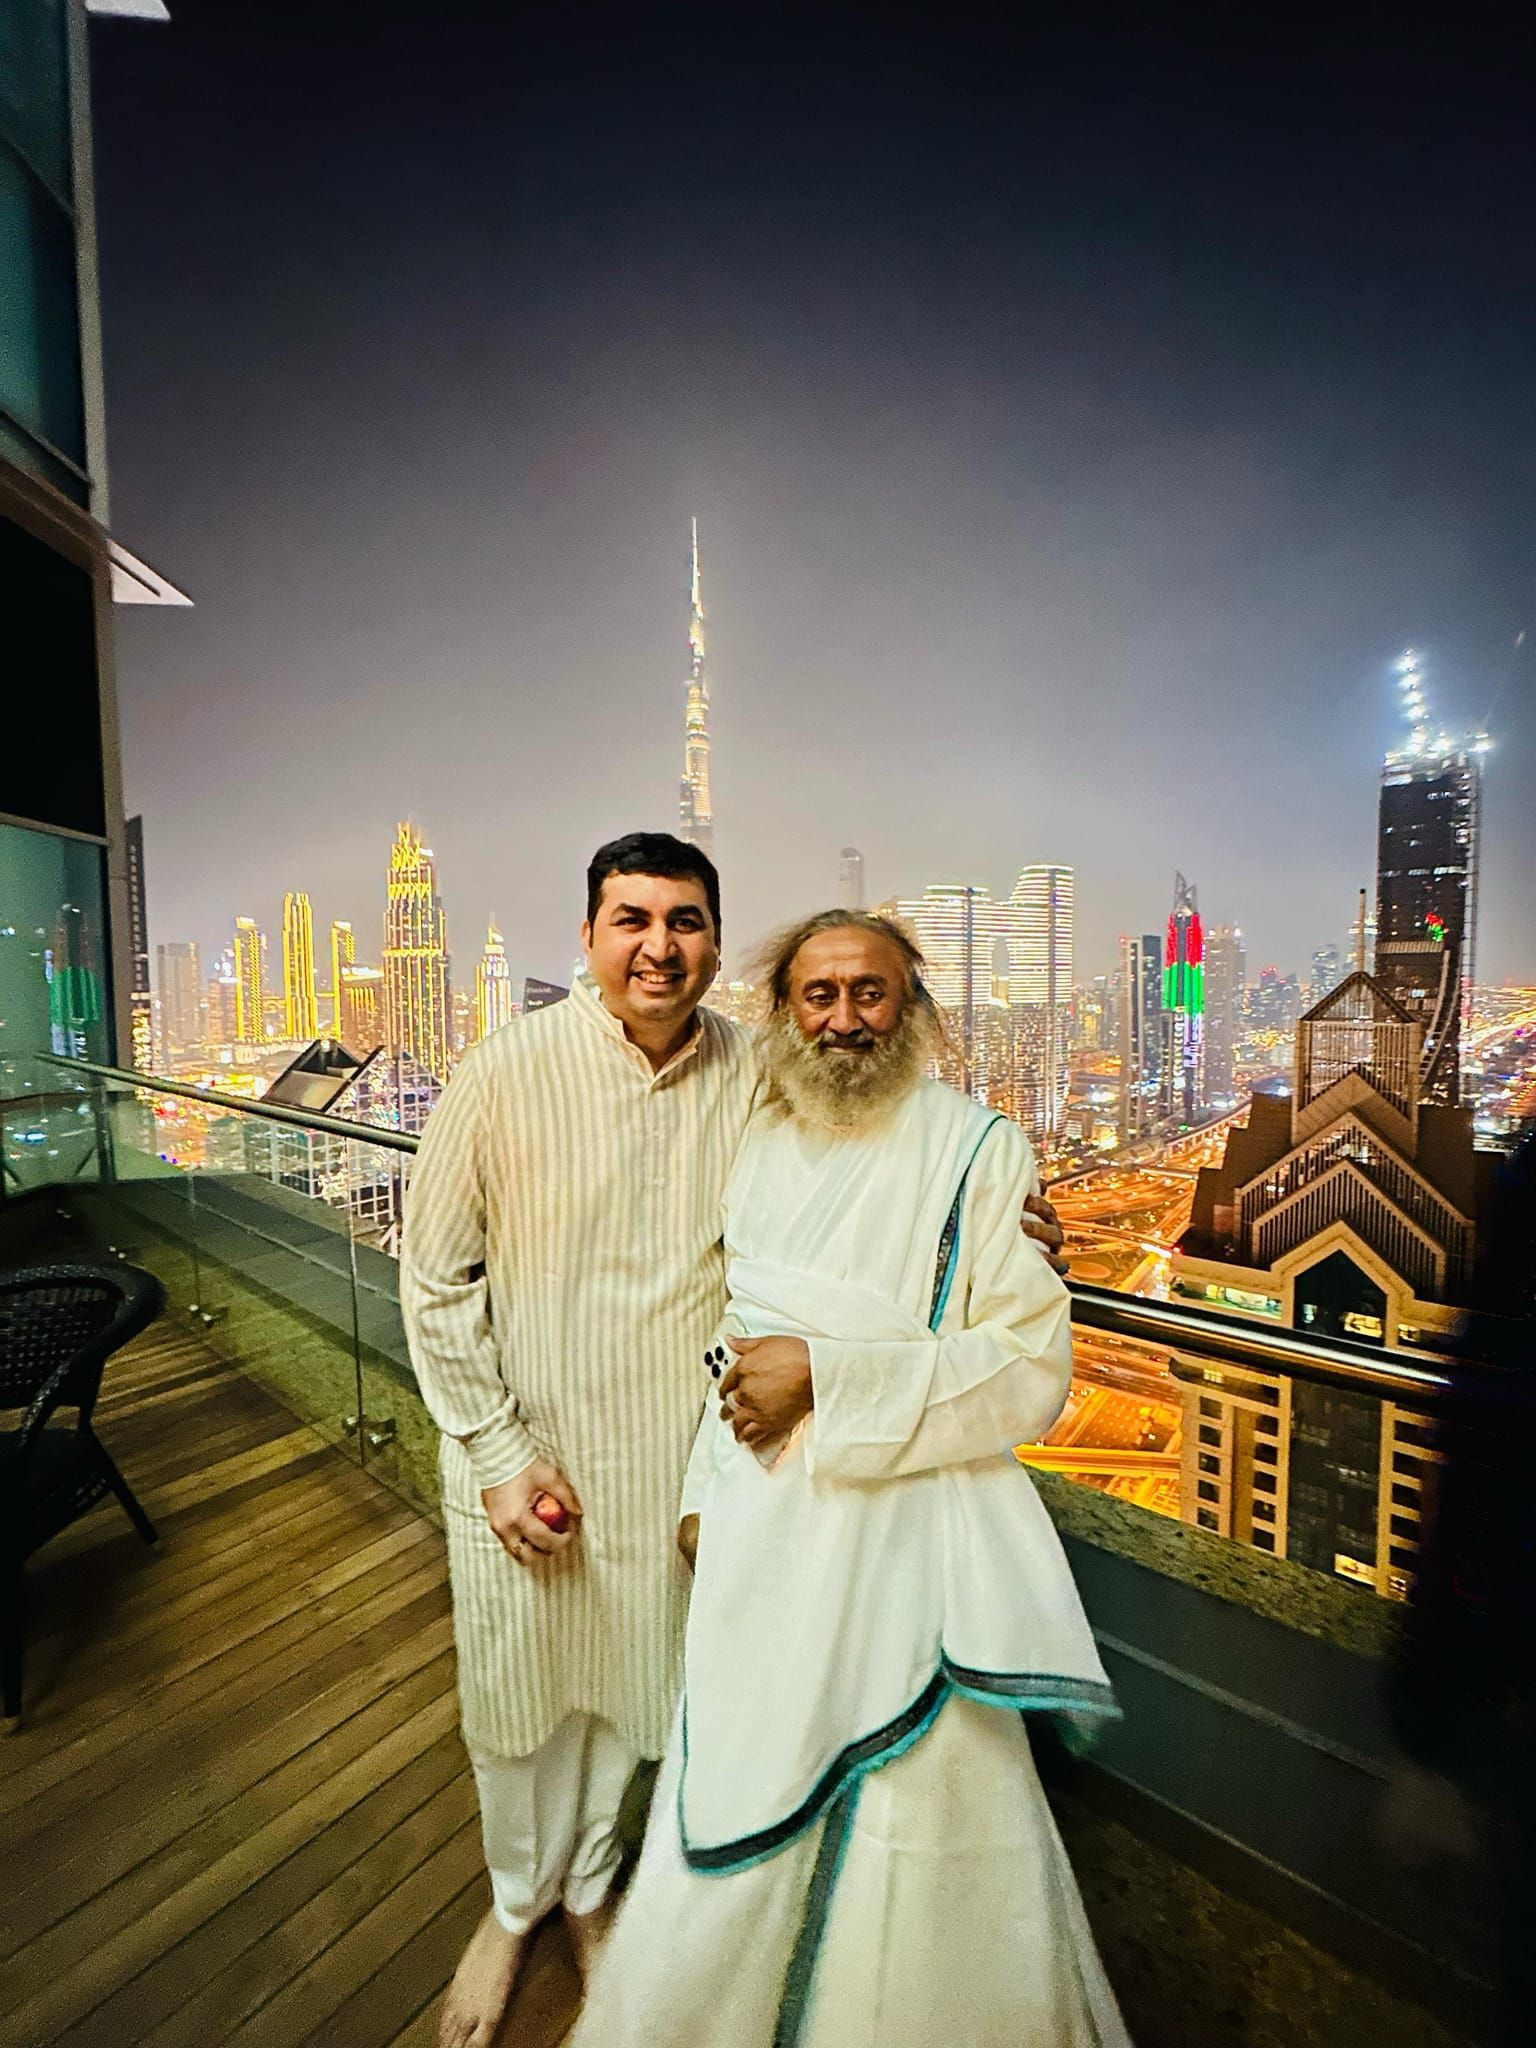
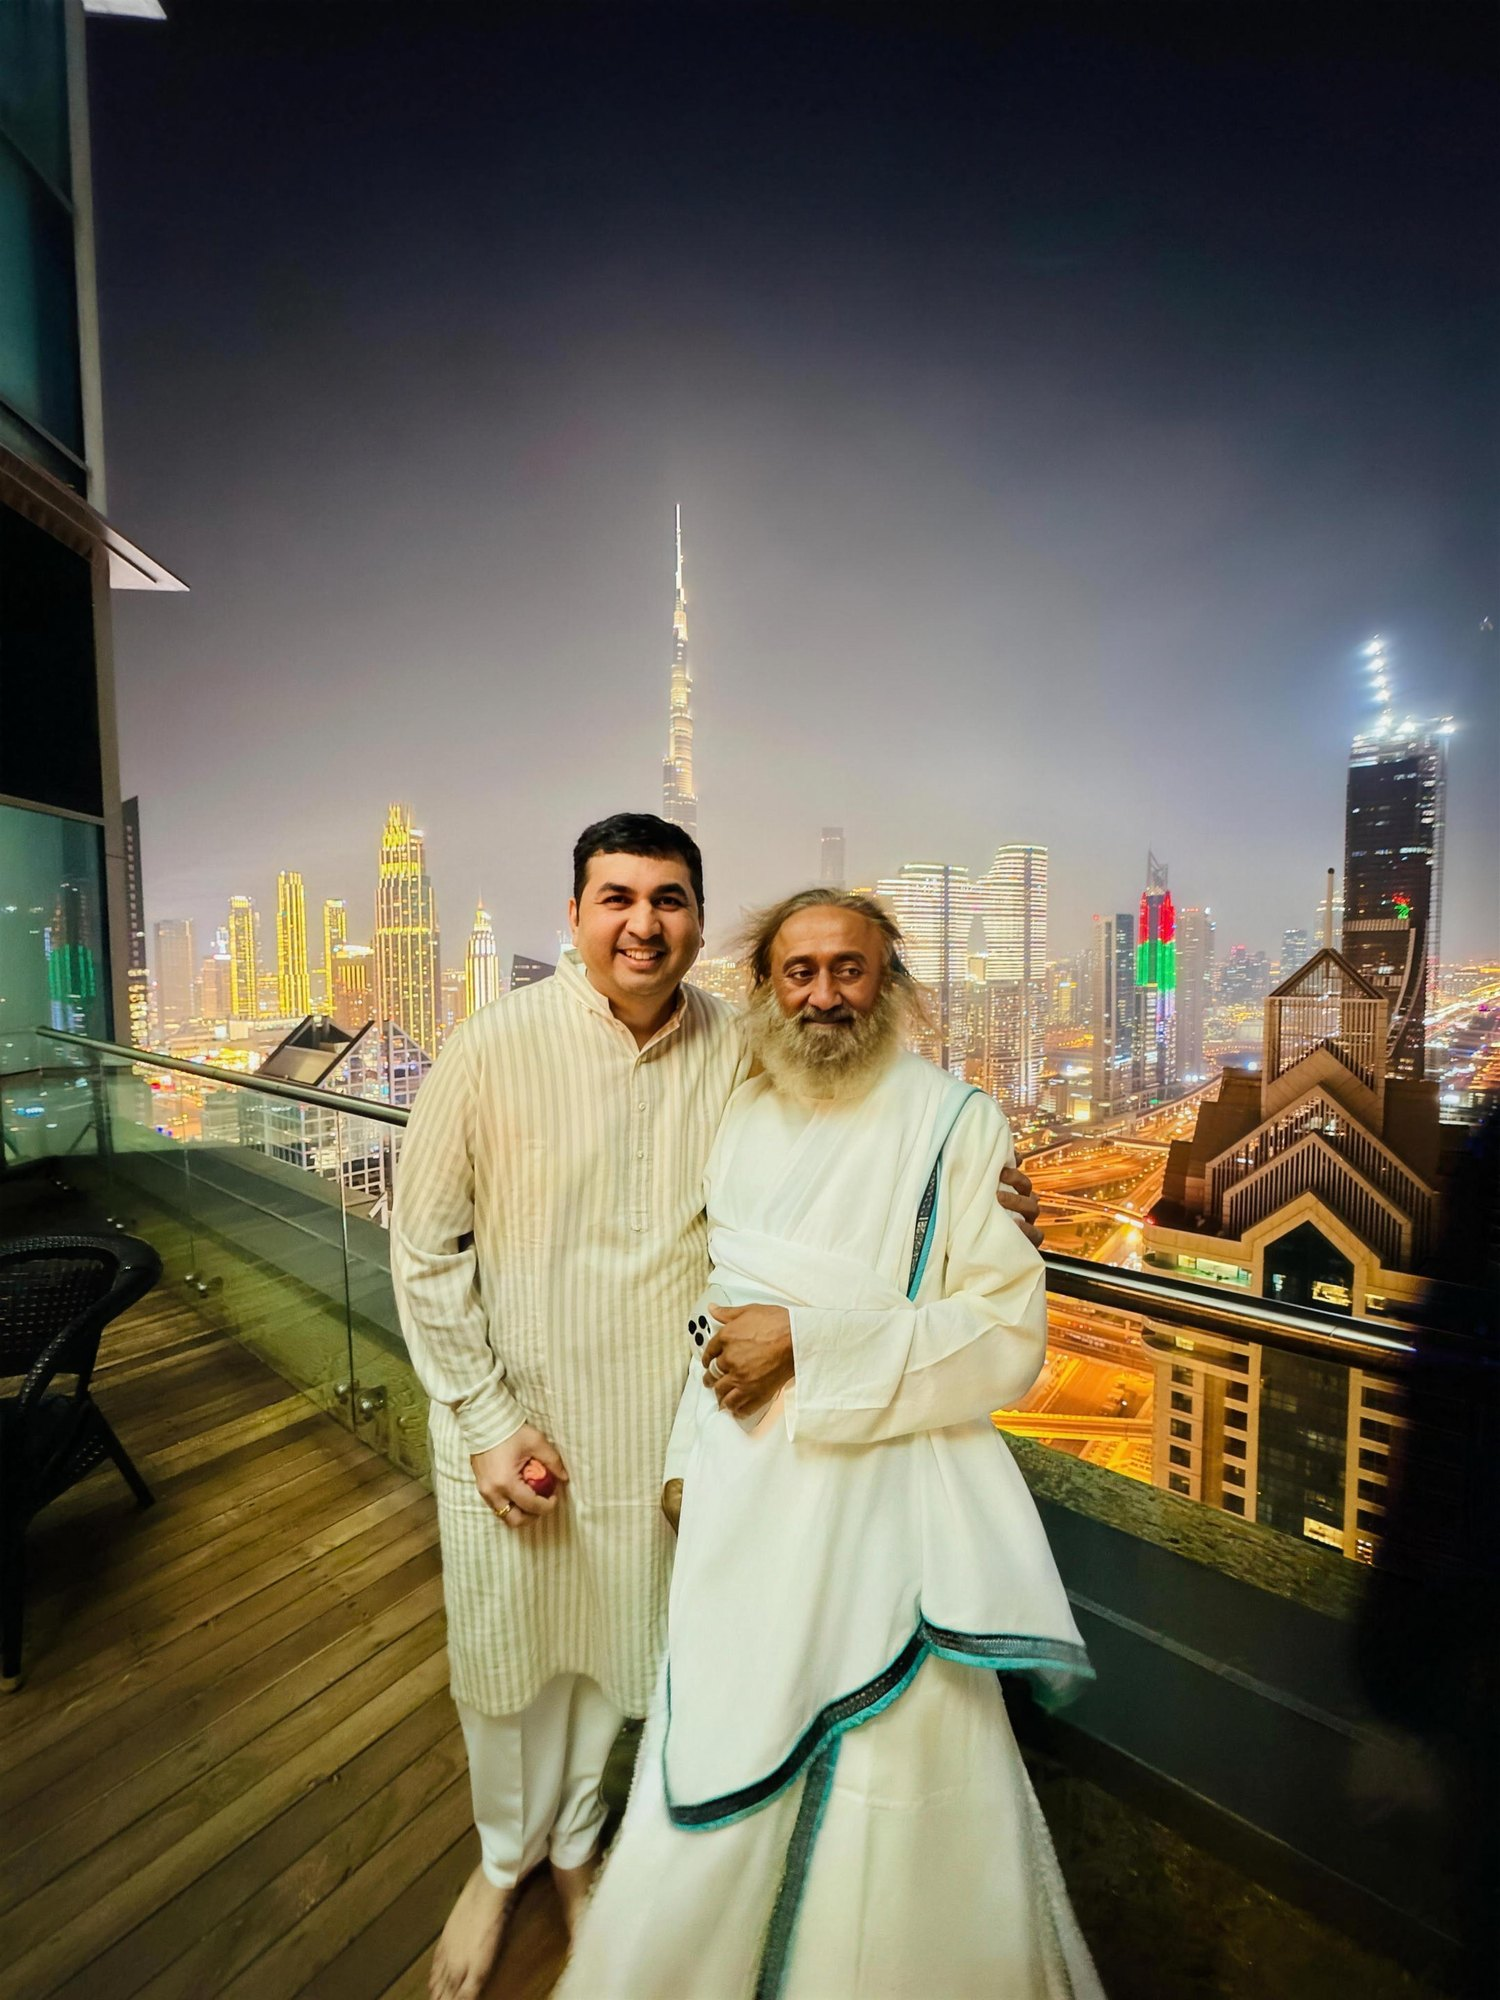
About-me photo upscaled to 4K; badge reads '12+ Years of service'
Claude-Session: https://claude.ai/code/session_018g57EjTKYcT2BDrDG8egWE

diff --git a/content/index.html b/content/index.html
@@ -122,7 +122,7 @@ nav: home
     <div class="split">
       <div class="frame reveal">
         <img src="{{img:real/jitu-with-gurudev}}" alt="Jitendra Khimlani with Gurudev Sri Sri Ravi Shankar" loading="lazy" style="object-position:center 30%">
-        <div class="frame-badge"><strong>12+</strong><span>Years of workshops</span></div>
+        <div class="frame-badge"><strong>12+</strong><span>Years of service</span></div>
       </div>
       <div>
         <span class="eyebrow reveal">About me</span>

diff --git a/index.html b/index.html
@@ -153,7 +153,7 @@
     <div class="split">
       <div class="frame reveal">
         <img src="assets/img/real/jitu-with-gurudev.jpg" alt="Jitendra Khimlani with Gurudev Sri Sri Ravi Shankar" loading="lazy" style="object-position:center 30%">
-        <div class="frame-badge"><strong>12+</strong><span>Years of workshops</span></div>
+        <div class="frame-badge"><strong>12+</strong><span>Years of service</span></div>
       </div>
       <div>
         <span class="eyebrow reveal">About me</span>
